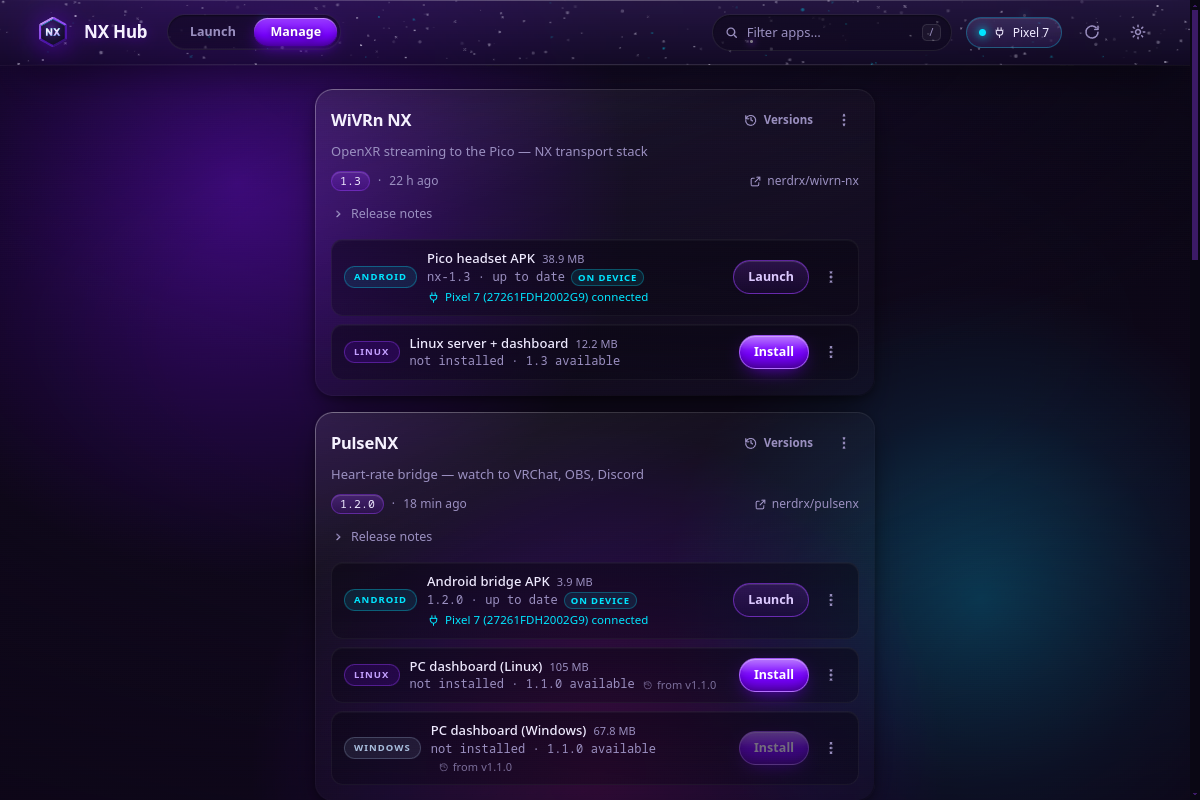
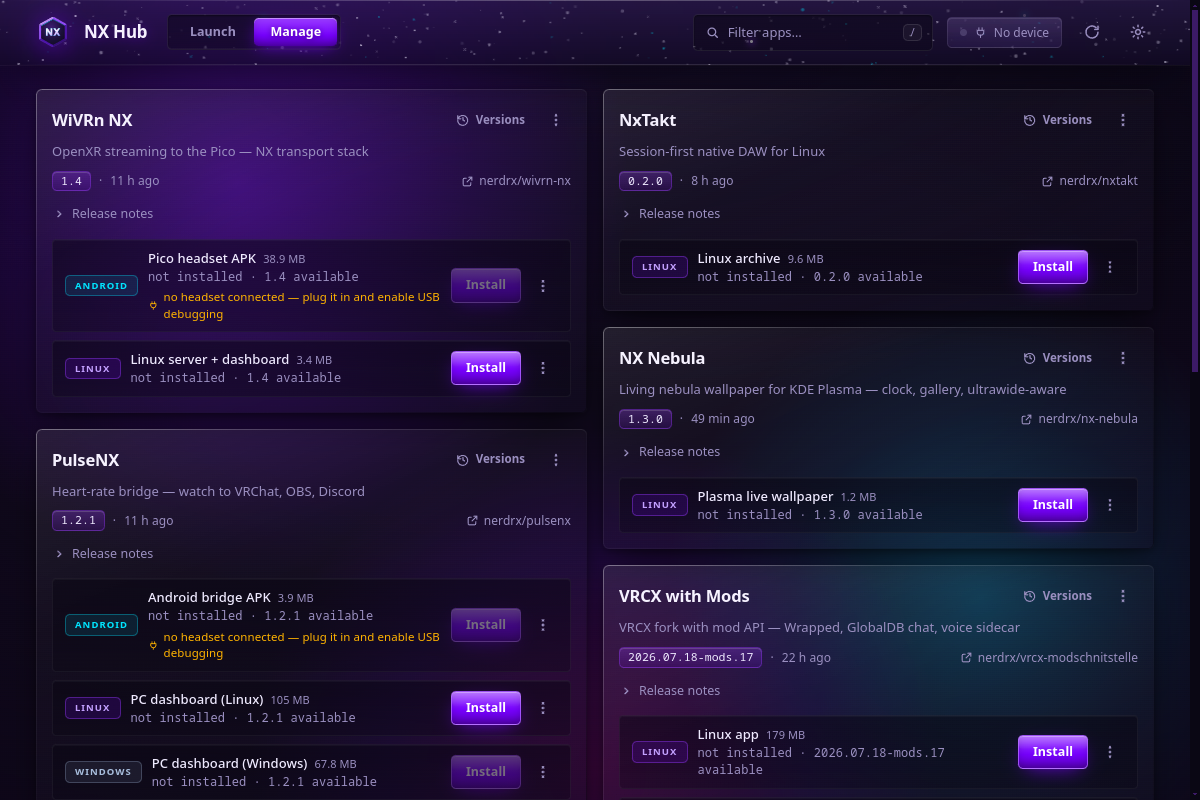
v0.3.6: angular geometry — radii cut to 3-6px, pills retired (DESIGN.md v1.1); the glass now echoes the faceted mark

diff --git a/src/renderer/styles.css b/src/renderer/styles.css
@@ -32,10 +32,10 @@
   --danger: #ff5470;
 
   /* ------------------------------------------------------------- geometry */
-  --radius: 18px;
-  --radius-sm: 12px;
-  --radius-xs: 8px;
-  --pill: 999px;
+  --radius: 6px;   /* angular glass — cards */
+  --radius-sm: 4px; /* rows, wells, inputs */
+  --radius-xs: 3px; /* chips, code */
+  --pill: 5px;      /* legacy name; pills are retired — buttons/tabs/chips are cut sharp */
   --font: system-ui, -apple-system, "Segoe UI", Roboto, "Noto Sans", Cantarell, sans-serif;
   --mono: ui-monospace, "JetBrains Mono", "Fira Code", Consolas, monospace;
 
@@ -470,7 +470,7 @@ body.sky-parked .neb {
   position: relative;
   width: 76px;
   height: 76px;
-  border-radius: 22px;
+  border-radius: var(--radius); /* tile icon plate — matches the angular system */
   display: flex;
   align-items: center;
   justify-content: center;

diff --git a/docs/DESIGN.md b/docs/DESIGN.md
@@ -1,6 +1,6 @@
 # The NX Design Language
 
-**Version 1.0 · extracted from NX Hub v0.3.3 (the reference implementation)**
+**Version 1.1 · extracted from NX Hub v0.3.6 (the reference implementation)**
 
 This document is the canonical specification of the NX visual language —
 "liquid glass on deep space." It is written to be dropped into any project's
@@ -32,6 +32,10 @@ Rules that make it feel expensive:
   the room, halve it.
 - No solid gray lines anywhere. Dividers are gradient hairlines that fade at
   both ends.
+- **Angular, never rounded.** Radii stay in the 3–6px band; pill shapes are
+  banned. The mark is a faceted crystal and every container echoes its cut
+  edges — large radii read as a toy. Perfect circles are reserved for status
+  dots and spinners only.
 - One light source: **upper-left**, in every gradient, bevel, and edge. Light
   consistency is why surfaces read as one physical world.
 
@@ -56,11 +60,12 @@ Copy these verbatim into `:root` (CSS) or mirror them as resources (Android
   --line: #2a1f45;
   --danger: #ff5470;
 
-  /* geometry */
-  --radius: 18px;      /* cards, sheets */
-  --radius-sm: 12px;   /* rows, wells, inputs */
-  --radius-xs: 8px;    /* chips, code */
-  --pill: 999px;       /* buttons, tabs, badges */
+  /* geometry — ANGULAR. Corners are cut, not rounded; sharpness echoes the
+     faceted crystal mark. Pills are banned outright. */
+  --radius: 6px;       /* cards, sheets */
+  --radius-sm: 4px;    /* rows, wells, inputs */
+  --radius-xs: 3px;    /* chips, code */
+  --pill: 5px;         /* legacy token name — buttons/tabs/badges, cut sharp */
   --font: system-ui, -apple-system, "Segoe UI", Roboto, "Noto Sans", Cantarell, sans-serif;
   --mono: ui-monospace, "JetBrains Mono", "Fira Code", Consolas, monospace;
 
@@ -162,14 +167,14 @@ Implementation notes:
 
 ## 5. Components
 
-**Buttons** are glass pills (`--pill` radius). Primary: violet fill with an
+**Buttons** are sharp-cut glass blocks (`--pill` radius — a 5px chamfer, not a pill). Primary: violet fill with an
 inner top highlight and a soft violet glow; hover lifts 1–2px
 (`translateY(-1px)`) and blooms the glow; press scales to `0.96`. Secondary:
 `--glass-chip` fill with `--edge` border. Danger uses `--danger` only for
 genuinely destructive actions. Amber is reserved for "update available" class
 actions. Disabled: 40% opacity, no hover response.
 
-**The tab pill**: navigation tabs share one sliding indicator — a single
+**The tab indicator**: navigation tabs share one sliding indicator — a single
 element translated between equal-width tab slots with `--ease-spring`, never
 per-tab background toggles. (CSS-only via `:has()` on the active tab.)
 
@@ -180,7 +185,7 @@ as **masonry** (CSS `columns`, `break-inside: avoid`) so mixed heights pack
 tightly — top-aligned grid rows with ragged holes read as fragmentation.
 
 **Chips / badges**: uppercase micro-labels, 10–11px, `letter-spacing: 0.12em+`,
-`--glass-chip` fill, `--pill` radius. Status chips: cyan = live/connected,
+`--glass-chip` fill, sharp-cut corners. Status chips: cyan = live/connected,
 amber = pending attention, muted = inert.
 
 **Progress**: a recessed well trough with a luminous violet→cyan liquid fill
@@ -288,6 +293,7 @@ Before shipping any NX-branded surface, verify:
 - [ ] `prefers-reduced-motion` fully honored.
 - [ ] Text contrast comfortable over every fill it sits on.
 - [ ] Mixed-height collections pack (masonry), never leave ragged holes.
+- [ ] No pill shapes; every radius is in the 3–6px band (circles = dots/spinners only).
 - [ ] The mark is pointy-top, correct variant for the size.
 - [ ] Copy is sentence-case, concrete, and tells the user what to do next.
 
